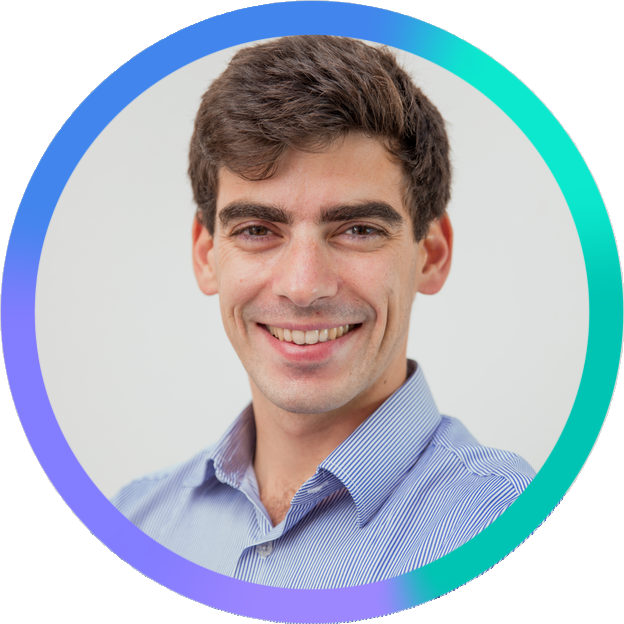
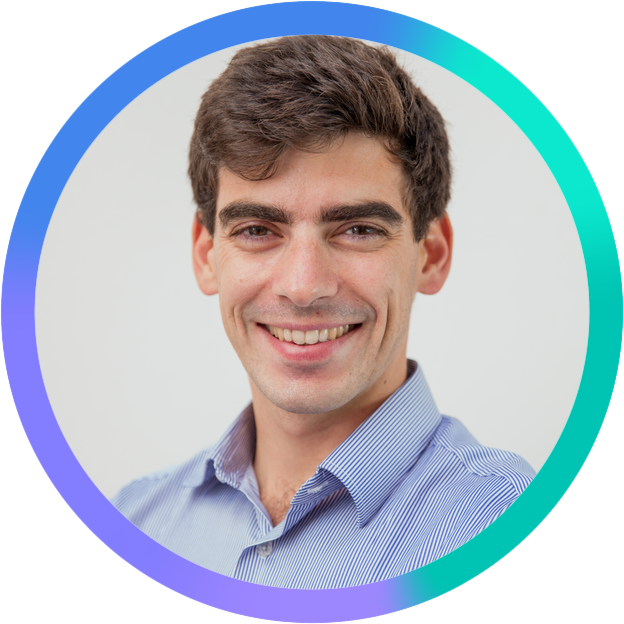
Fix liaising effect

diff --git a/script/picgen.py b/script/picgen.py
@@ -12,13 +12,11 @@ img = Image.open("ed.jpg").convert("RGBA")
 # resize input img to uniao size
 img = img.resize((uniao_w, uniao_h), Image.ANTIALIAS)
 
-# paste uniao
-img.paste(uniao, (0, 0), uniao)
-
 # Create same size alpha layer with circle
 alpha = Image.new("L", img.size, 0)
 draw = ImageDraw.Draw(alpha)
-draw.pieslice([0, 0, uniao_h, uniao_w], 0, 360, fill=255)
+m = 10 # margin to avoid liaising effect
+draw.pieslice([m, m, uniao_h - m, uniao_w - m], 0, 360, fill=255)
 
 # Convert alpha Image to numpy array
 npAlpha = np.array(alpha)
@@ -29,4 +27,8 @@ npImage = np.dstack((npImage, npAlpha))
 
 # Save with alpha
 res = Image.fromarray(npImage)
+
+# paste uniao
+res.paste(uniao, (0, 0), uniao)
+
 res.save("result.png")
